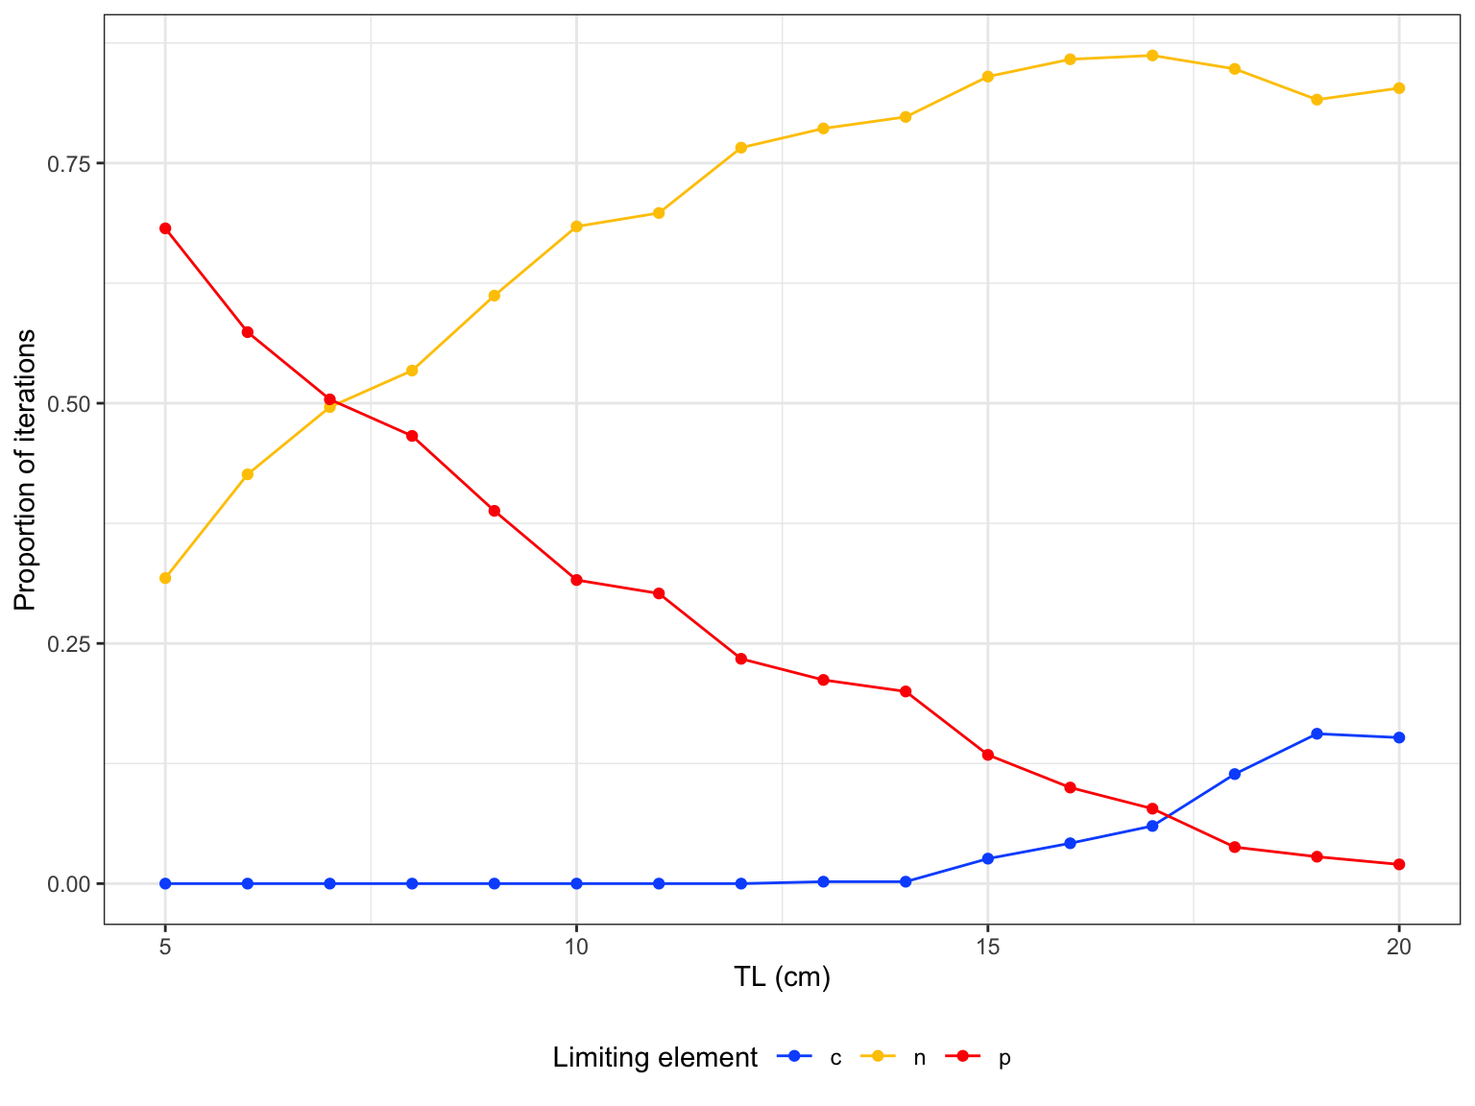
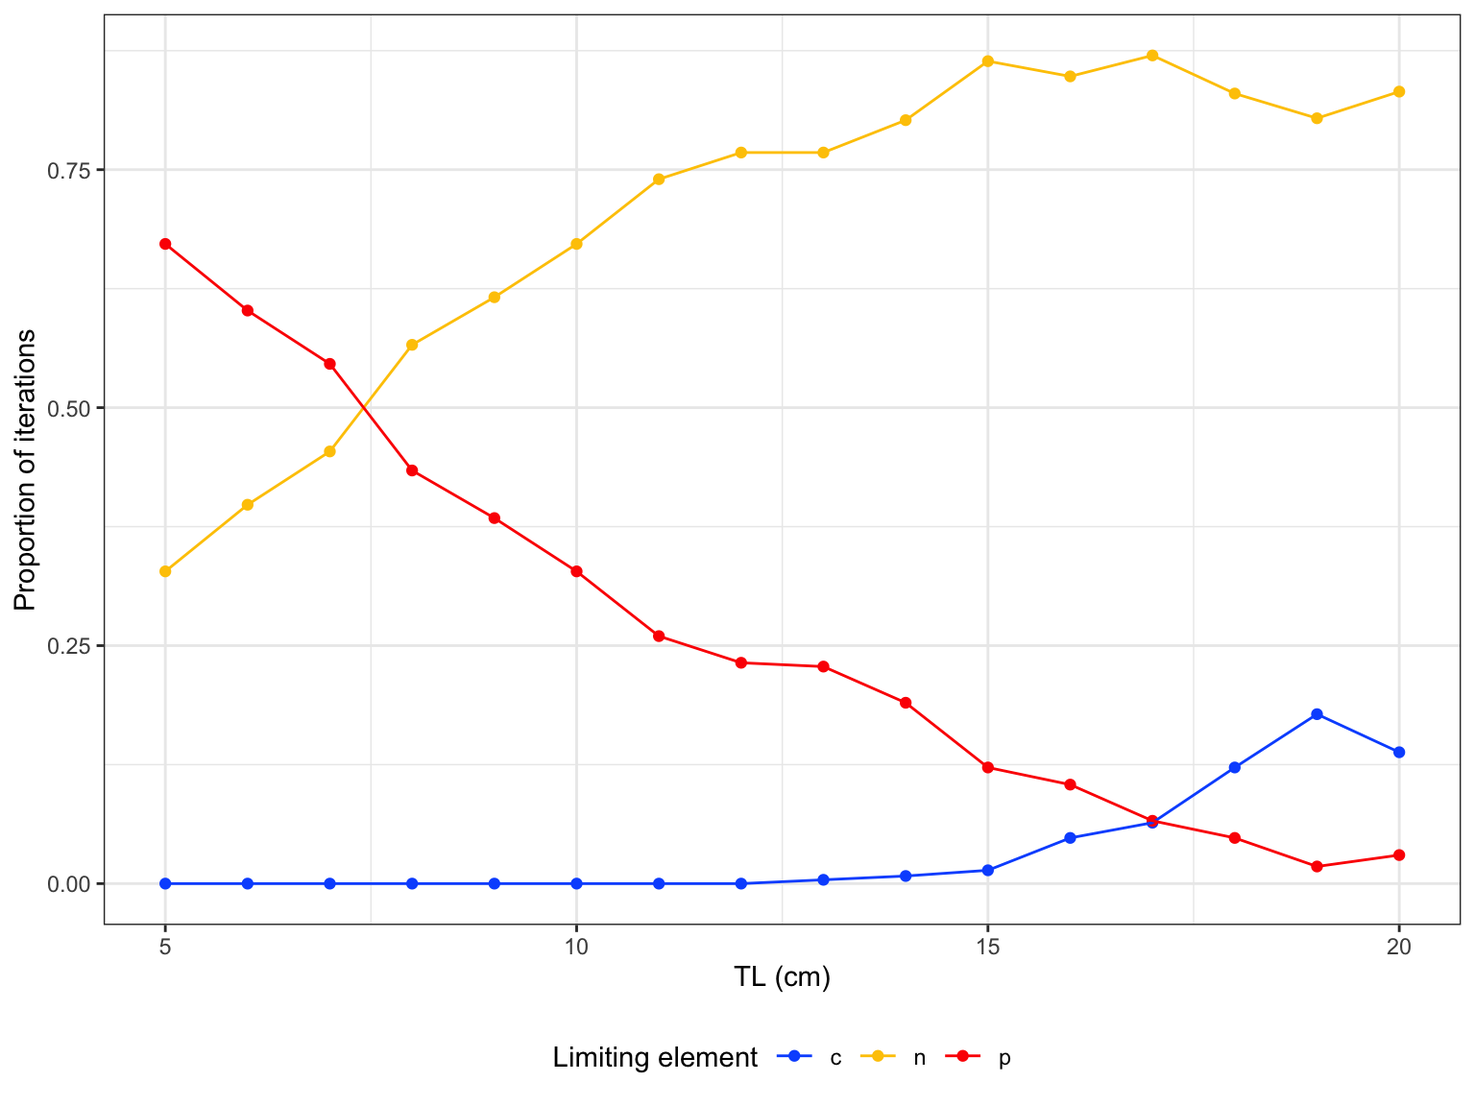
Built site for fishflux: 0.0.1.1@3d5d7e8

diff --git a/articles/intro_to_fishflux.html b/articles/intro_to_fishflux.html
@@ -411,7 +411,7 @@ Elemental stoichiometry of diet
 <span class="co">#&gt;            species    t0 Linf     k     asp troph   lwa_m      lwa_sd lwb_m</span>
 <span class="co">#&gt; 1 Zebrasoma scopas -0.49 13.3 0.425 2.02091     2 0.02455 0.002627551  2.98</span>
 <span class="co">#&gt;      lwb_sd     mdw_m        f0_m        f0_sd alpha_m   alpha_sd</span>
-<span class="co">#&gt; 1 0.0255102 0.2504833 0.001517989 3.128376e-10    0.77 0.05286288</span>
+<span class="co">#&gt; 1 0.0255102 0.2504833 0.001517989 3.221308e-10    0.77 0.05286288</span>
 </pre></div>
 
 <p>All other parameters have to be provided by the user. For more information on how to acquire these parameters, take a look at (“this paper” add reference to methods paper).</p>
@@ -431,57 +431,57 @@ Elemental stoichiometry of diet
 <p>The object <code>model</code> now contains all the samples generated from the MCMC simulation and a summary of all parameters generated. To extract certain variables of interest, use the <code><a href="../reference/extract.html">extract()</a></code> function. Predictions for fluxes of C, N and P are all in g / day. </p>
 <div class="sourceCode" id="cb10"><pre class="downlit">
 <span class="kw">fishflux</span>::<span class="fu"><a href="../reference/extract.html">extract</a></span>(<span class="kw">model</span>, <span class="fu"><a href="https://rdrr.io/r/base/c.html">c</a></span>(<span class="st">"Fn"</span>,<span class="st">"Fp"</span>))
-<span class="co">#&gt;    TL      Fn_mean    Fn_median        Fn_sd      Fn_2.5%    Fn_97.5%</span>
-<span class="co">#&gt; 1   5 0.0008971976 0.0008427023 0.0004485928 0.0002226385 0.001852302</span>
-<span class="co">#&gt; 2   6 0.0012911722 0.0012213562 0.0005892928 0.0003512833 0.002555288</span>
-<span class="co">#&gt; 3   7 0.0018913598 0.0017272066 0.0009147774 0.0004644318 0.004085039</span>
-<span class="co">#&gt; 4   8 0.0025692476 0.0023463980 0.0012849234 0.0005706015 0.005757015</span>
-<span class="co">#&gt; 5   9 0.0033399543 0.0030145958 0.0016765856 0.0009742811 0.007334197</span>
-<span class="co">#&gt; 6  10 0.0043795390 0.0039349080 0.0023190713 0.0011115506 0.010245331</span>
-<span class="co">#&gt; 7  11 0.0057155750 0.0051051084 0.0033361388 0.0012786984 0.013728015</span>
-<span class="co">#&gt; 8  12 0.0070654806 0.0060369016 0.0041748816 0.0017037722 0.017030833</span>
-<span class="co">#&gt; 9  13 0.0091745793 0.0079675110 0.0055502882 0.0019541073 0.023272699</span>
-<span class="co">#&gt; 10 14 0.0106646636 0.0093916928 0.0068783414 0.0020111686 0.027173268</span>
-<span class="co">#&gt; 11 15 0.0133890423 0.0120619617 0.0083318943 0.0025035228 0.033220698</span>
-<span class="co">#&gt; 12 16 0.0157246114 0.0126661965 0.0103119888 0.0033030957 0.040096198</span>
-<span class="co">#&gt; 13 17 0.0201629309 0.0177908562 0.0130508503 0.0039564631 0.051786905</span>
-<span class="co">#&gt; 14 18 0.0249689918 0.0225133952 0.0157875323 0.0049662514 0.060123630</span>
-<span class="co">#&gt; 15 19 0.0270753801 0.0230482867 0.0183912416 0.0065101365 0.073637297</span>
-<span class="co">#&gt; 16 20 0.0318933562 0.0274579617 0.0199279968 0.0075028712 0.079461921</span>
+<span class="co">#&gt;    TL     Fn_mean    Fn_median        Fn_sd      Fn_2.5%    Fn_97.5%</span>
+<span class="co">#&gt; 1   5 0.000892330 0.0008202342 0.0004343086 0.0002536062 0.001934098</span>
+<span class="co">#&gt; 2   6 0.001305549 0.0012425834 0.0005884465 0.0003930769 0.002615290</span>
+<span class="co">#&gt; 3   7 0.001838132 0.0017144554 0.0008669609 0.0005657498 0.003709932</span>
+<span class="co">#&gt; 4   8 0.002485455 0.0023956921 0.0012063945 0.0005363409 0.005211186</span>
+<span class="co">#&gt; 5   9 0.003386492 0.0030859693 0.0016316142 0.0009776993 0.007057342</span>
+<span class="co">#&gt; 6  10 0.004343678 0.0040385811 0.0021655038 0.0011731566 0.009485440</span>
+<span class="co">#&gt; 7  11 0.005817225 0.0052338934 0.0032718147 0.0014472854 0.014556933</span>
+<span class="co">#&gt; 8  12 0.006968913 0.0059734538 0.0041568288 0.0016489904 0.016844476</span>
+<span class="co">#&gt; 9  13 0.008538738 0.0074534535 0.0053121502 0.0017109676 0.021789038</span>
+<span class="co">#&gt; 10 14 0.011092588 0.0094526917 0.0068176759 0.0025347410 0.027237908</span>
+<span class="co">#&gt; 11 15 0.013861626 0.0118337358 0.0087965569 0.0025589856 0.033941740</span>
+<span class="co">#&gt; 12 16 0.016623341 0.0145215076 0.0109202243 0.0027593312 0.042442711</span>
+<span class="co">#&gt; 13 17 0.019302753 0.0158535730 0.0132386823 0.0042491541 0.049960035</span>
+<span class="co">#&gt; 14 18 0.022844673 0.0202565559 0.0148284399 0.0043497765 0.057211186</span>
+<span class="co">#&gt; 15 19 0.026398929 0.0216344702 0.0172599153 0.0062146314 0.067948789</span>
+<span class="co">#&gt; 16 20 0.032744726 0.0278280982 0.0205804837 0.0071949647 0.078197147</span>
 <span class="co">#&gt;          Fn_25%      Fn_75%      Fp_mean    Fp_median        Fp_sd      Fp_2.5%</span>
-<span class="co">#&gt; 1  0.0005814066 0.001133298 0.0000845369 4.162884e-05 0.0001074669 3.296404e-06</span>
-<span class="co">#&gt; 2  0.0008559011 0.001652582 0.0001612931 7.966024e-05 0.0001969316 5.218370e-06</span>
-<span class="co">#&gt; 3  0.0012214976 0.002372440 0.0002865175 1.584475e-04 0.0003322382 1.021650e-05</span>
-<span class="co">#&gt; 4  0.0016972227 0.003224132 0.0004852429 2.852811e-04 0.0005133002 1.653175e-05</span>
-<span class="co">#&gt; 5  0.0020654473 0.004317406 0.0007033101 4.357633e-04 0.0006746701 4.943907e-05</span>
-<span class="co">#&gt; 6  0.0027132453 0.005552391 0.0010660374 8.222450e-04 0.0009440927 3.492547e-05</span>
-<span class="co">#&gt; 7  0.0032430684 0.007490877 0.0015197125 1.085315e-03 0.0013836725 6.876559e-05</span>
-<span class="co">#&gt; 8  0.0040163375 0.009261096 0.0020593541 1.622317e-03 0.0017073201 1.293706e-04</span>
-<span class="co">#&gt; 9  0.0050063819 0.012300737 0.0028336109 2.360883e-03 0.0022729091 1.568082e-04</span>
-<span class="co">#&gt; 10 0.0052393765 0.014845558 0.0035195426 2.813898e-03 0.0027544002 2.767953e-04</span>
-<span class="co">#&gt; 11 0.0068525097 0.018059765 0.0046401300 4.007412e-03 0.0033578654 5.041093e-04</span>
-<span class="co">#&gt; 12 0.0077359227 0.022006976 0.0056842887 4.497358e-03 0.0041390285 7.638701e-04</span>
-<span class="co">#&gt; 13 0.0100390817 0.028062313 0.0075712622 6.683674e-03 0.0051994999 1.154507e-03</span>
-<span class="co">#&gt; 14 0.0119889342 0.033436218 0.0097048904 8.780809e-03 0.0062894550 1.850977e-03</span>
-<span class="co">#&gt; 15 0.0125371618 0.035818606 0.0108022517 9.165988e-03 0.0073492779 2.605937e-03</span>
-<span class="co">#&gt; 16 0.0156914733 0.043607231 0.0127358311 1.088532e-02 0.0079712657 2.886492e-03</span>
+<span class="co">#&gt; 1  0.0005938415 0.001123955 0.0000826550 4.248378e-05 0.0001094517 2.300911e-06</span>
+<span class="co">#&gt; 2  0.0008585821 0.001675516 0.0001578149 8.118899e-05 0.0001890592 8.094315e-06</span>
+<span class="co">#&gt; 3  0.0011977908 0.002381596 0.0002784285 1.486901e-04 0.0003326177 1.101612e-05</span>
+<span class="co">#&gt; 4  0.0016013298 0.003163593 0.0004701323 2.877559e-04 0.0004763450 2.409779e-05</span>
+<span class="co">#&gt; 5  0.0022205604 0.004332193 0.0007357324 4.669388e-04 0.0006880070 5.220424e-05</span>
+<span class="co">#&gt; 6  0.0027248542 0.005558747 0.0010690426 8.064651e-04 0.0009176769 5.531072e-05</span>
+<span class="co">#&gt; 7  0.0032784955 0.007451357 0.0015625559 1.132585e-03 0.0013328287 9.405728e-05</span>
+<span class="co">#&gt; 8  0.0039083775 0.008938357 0.0019621198 1.507596e-03 0.0017037435 7.999178e-05</span>
+<span class="co">#&gt; 9  0.0044077413 0.011319973 0.0026252833 2.145482e-03 0.0021476490 1.552818e-04</span>
+<span class="co">#&gt; 10 0.0057324085 0.015153528 0.0036683755 3.070235e-03 0.0027599486 2.333634e-04</span>
+<span class="co">#&gt; 11 0.0068921494 0.019254643 0.0048319043 3.934304e-03 0.0035573224 5.411508e-04</span>
+<span class="co">#&gt; 12 0.0079872902 0.022809738 0.0059918614 5.164496e-03 0.0043286887 5.867184e-04</span>
+<span class="co">#&gt; 13 0.0091049239 0.025916679 0.0072282076 5.870616e-03 0.0052177496 1.351637e-03</span>
+<span class="co">#&gt; 14 0.0104379097 0.031567503 0.0088681264 7.868538e-03 0.0059496483 1.485253e-03</span>
+<span class="co">#&gt; 15 0.0124039072 0.037055107 0.0105174688 8.680346e-03 0.0068880634 2.366229e-03</span>
+<span class="co">#&gt; 16 0.0163069409 0.044658259 0.0130461778 1.102326e-02 0.0082288159 2.896745e-03</span>
 <span class="co">#&gt;        Fp_97.5%       Fp_25%       Fp_75%</span>
-<span class="co">#&gt; 1  0.0003614592 2.092266e-05 8.919894e-05</span>
-<span class="co">#&gt; 2  0.0007076267 4.122615e-05 2.005069e-04</span>
-<span class="co">#&gt; 3  0.0011205706 7.800665e-05 3.858120e-04</span>
-<span class="co">#&gt; 4  0.0018766426 1.173207e-04 6.915252e-04</span>
-<span class="co">#&gt; 5  0.0026187738 2.054523e-04 1.063772e-03</span>
-<span class="co">#&gt; 6  0.0034950367 3.395817e-04 1.545308e-03</span>
-<span class="co">#&gt; 7  0.0052381707 4.603839e-04 2.314768e-03</span>
-<span class="co">#&gt; 8  0.0062718516 7.276306e-04 2.838645e-03</span>
-<span class="co">#&gt; 9  0.0087038708 1.004703e-03 3.932499e-03</span>
-<span class="co">#&gt; 10 0.0097404820 1.320274e-03 5.047346e-03</span>
-<span class="co">#&gt; 11 0.0124068294 1.991050e-03 6.408959e-03</span>
-<span class="co">#&gt; 12 0.0158132979 2.505276e-03 8.053852e-03</span>
-<span class="co">#&gt; 13 0.0200497181 3.560635e-03 1.066790e-02</span>
-<span class="co">#&gt; 14 0.0239314043 4.664313e-03 1.305767e-02</span>
-<span class="co">#&gt; 15 0.0294567469 5.032769e-03 1.436016e-02</span>
-<span class="co">#&gt; 16 0.0321558382 6.199518e-03 1.725372e-02</span>
+<span class="co">#&gt; 1  0.0003993457 2.340244e-05 8.477846e-05</span>
+<span class="co">#&gt; 2  0.0007361324 4.047369e-05 1.945532e-04</span>
+<span class="co">#&gt; 3  0.0011466144 6.985265e-05 4.060408e-04</span>
+<span class="co">#&gt; 4  0.0017542168 1.219315e-04 6.651142e-04</span>
+<span class="co">#&gt; 5  0.0024516420 2.202994e-04 1.100870e-03</span>
+<span class="co">#&gt; 6  0.0033539254 3.395048e-04 1.544804e-03</span>
+<span class="co">#&gt; 7  0.0050328802 5.626677e-04 2.211616e-03</span>
+<span class="co">#&gt; 8  0.0061809597 6.763053e-04 2.784042e-03</span>
+<span class="co">#&gt; 9  0.0079028783 8.920328e-04 3.841104e-03</span>
+<span class="co">#&gt; 10 0.0100188424 1.387633e-03 5.397443e-03</span>
+<span class="co">#&gt; 11 0.0127060159 1.876138e-03 7.000961e-03</span>
+<span class="co">#&gt; 12 0.0159669666 2.501806e-03 8.234894e-03</span>
+<span class="co">#&gt; 13 0.0203323022 3.154684e-03 9.939561e-03</span>
+<span class="co">#&gt; 14 0.0221263918 4.013796e-03 1.236004e-02</span>
+<span class="co">#&gt; 15 0.0273607501 4.966495e-03 1.481783e-02</span>
+<span class="co">#&gt; 16 0.0311232895 6.625166e-03 1.777497e-02</span>
 </pre></div>
 
 </div>
@@ -503,46 +503,46 @@ Elemental stoichiometry of diet
 #&gt; 6  10        c    0.000
 #&gt; 7  11        c    0.000
 #&gt; 8  12        c    0.000
-#&gt; 9  13        c    0.002
-#&gt; 10 14        c    0.002
-#&gt; 11 15        c    0.026
-#&gt; 12 16        c    0.042
-#&gt; 13 17        c    0.060
-#&gt; 14 18        c    0.114
-#&gt; 15 19        c    0.156
-#&gt; 16 20        c    0.152
-#&gt; 17  5        n    0.318
-#&gt; 18  6        n    0.426
-#&gt; 19  7        n    0.496
-#&gt; 20  8        n    0.534
-#&gt; 21  9        n    0.612
-#&gt; 22 10        n    0.684
-#&gt; 23 11        n    0.698
-#&gt; 24 12        n    0.766
-#&gt; 25 13        n    0.786
-#&gt; 26 14        n    0.798
-#&gt; 27 15        n    0.840
-#&gt; 28 16        n    0.858
-#&gt; 29 17        n    0.862
-#&gt; 30 18        n    0.848
-#&gt; 31 19        n    0.816
-#&gt; 32 20        n    0.828
-#&gt; 33  5        p    0.682
-#&gt; 34  6        p    0.574
-#&gt; 35  7        p    0.504
-#&gt; 36  8        p    0.466
-#&gt; 37  9        p    0.388
-#&gt; 38 10        p    0.316
-#&gt; 39 11        p    0.302
-#&gt; 40 12        p    0.234
-#&gt; 41 13        p    0.212
-#&gt; 42 14        p    0.200
-#&gt; 43 15        p    0.134
-#&gt; 44 16        p    0.100
-#&gt; 45 17        p    0.078
-#&gt; 46 18        p    0.038
-#&gt; 47 19        p    0.028
-#&gt; 48 20        p    0.020
+#&gt; 9  13        c    0.004
+#&gt; 10 14        c    0.008
+#&gt; 11 15        c    0.014
+#&gt; 12 16        c    0.048
+#&gt; 13 17        c    0.064
+#&gt; 14 18        c    0.122
+#&gt; 15 19        c    0.178
+#&gt; 16 20        c    0.138
+#&gt; 17  5        n    0.328
+#&gt; 18  6        n    0.398
+#&gt; 19  7        n    0.454
+#&gt; 20  8        n    0.566
+#&gt; 21  9        n    0.616
+#&gt; 22 10        n    0.672
+#&gt; 23 11        n    0.740
+#&gt; 24 12        n    0.768
+#&gt; 25 13        n    0.768
+#&gt; 26 14        n    0.802
+#&gt; 27 15        n    0.864
+#&gt; 28 16        n    0.848
+#&gt; 29 17        n    0.870
+#&gt; 30 18        n    0.830
+#&gt; 31 19        n    0.804
+#&gt; 32 20        n    0.832
+#&gt; 33  5        p    0.672
+#&gt; 34  6        p    0.602
+#&gt; 35  7        p    0.546
+#&gt; 36  8        p    0.434
+#&gt; 37  9        p    0.384
+#&gt; 38 10        p    0.328
+#&gt; 39 11        p    0.260
+#&gt; 40 12        p    0.232
+#&gt; 41 13        p    0.228
+#&gt; 42 14        p    0.190
+#&gt; 43 15        p    0.122
+#&gt; 44 16        p    0.104
+#&gt; 45 17        p    0.066
+#&gt; 46 18        p    0.048
+#&gt; 47 19        p    0.018
+#&gt; 48 20        p    0.030
 ## Plot one variable:
 fishflux::plot_cnp(model,  y = "Fp", x = "tl", probs = c(0.5, 0.8, 0.95))</a></code></pre>
 <p><img src="intro_to_fishflux_files/figure-html/unnamed-chunk-9-2.png" width="768"></p>
@@ -562,11 +562,11 @@ fishflux::plot_cnp(model,  y = "Fp", x = "tl", probs = c(0.5, 0.8, 0.95))</a></c
 </pre></div>
 <p><img src="intro_to_fishflux_files/figure-html/unnamed-chunk-10-1.png" width="768"></p>
 <pre><code>#&gt;              Fn_CI        Fp_CI        Ic_CI
-#&gt; Dn_sd 1.925305e-10 0.0002342137 8.364776e-03
-#&gt; Dp_sd 2.035078e-10 0.0008048663 2.130135e-09
-#&gt; Qn_sd 2.133686e-03 0.0008327102 2.973965e-02
-#&gt; Qp_sd 1.966702e-10 0.0007582806 2.048550e-09
-#&gt; k_sd  1.959302e-10 0.0001141954 1.098033e-02</code></pre>
+#&gt; Dn_sd 2.098920e-10 0.0002816666 1.005952e-02
+#&gt; Dp_sd 2.089410e-10 0.0007462453 2.201808e-09
+#&gt; Qn_sd 1.935921e-03 0.0007555289 2.698317e-02
+#&gt; Qp_sd 1.989976e-10 0.0007056065 2.087257e-09
+#&gt; k_sd  2.013695e-10 0.0001144880 1.100847e-02</code></pre>
 
 </div>
 </div>

diff --git a/reference/extract.html b/reference/extract.html
@@ -174,19 +174,19 @@
     <h2 class="hasAnchor" id="examples"><a class="anchor" href="#examples"></a>Examples</h2>
     <pre class="examples"><div class='input'><span class='kw'>model</span> <span class='op'>&lt;-</span> <span class='fu'><a href='https://rdrr.io/pkg/fishflux/man/cnp_model_mcmc.html'>cnp_model_mcmc</a></span>(TL = <span class='fl'>5</span><span class='op'>:</span><span class='fl'>10</span>, param = <span class='fu'><a href='https://rdrr.io/r/base/list.html'>list</a></span>(Qc_m = <span class='fl'>40</span>, Qn_m = <span class='fl'>10</span>, Qp_m = <span class='fl'>4</span>))
 <span class='fu'><a href='https://rdrr.io/pkg/fishflux/man/extract.html'>extract</a></span>(<span class='kw'>model</span>, <span class='fu'><a href='https://rdrr.io/r/base/c.html'>c</a></span>(<span class='st'>"Fn"</span>,<span class='st'>"Fp"</span>))</div><div class='output co'>#&gt;   TL      Fn_mean    Fn_median        Fn_sd      Fn_2.5%     Fn_97.5%
-#&gt; 1  5 0.0006047886 0.0006047886 6.373197e-12 0.0006047886 0.0006047886
-#&gt; 2  6 0.0010610097 0.0010610097 1.065870e-11 0.0010610097 0.0010610097
-#&gt; 3  7 0.0017065393 0.0017065393 1.735772e-11 0.0017065393 0.0017065394
-#&gt; 4  8 0.0025757605 0.0025757605 2.617331e-11 0.0025757604 0.0025757605
-#&gt; 5  9 0.0037034689 0.0037034689 3.544383e-11 0.0037034688 0.0037034690
-#&gt; 6 10 0.0051248251 0.0051248251 4.844321e-11 0.0051248250 0.0051248252
+#&gt; 1  5 0.0006047886 0.0006047886 6.092179e-12 0.0006047886 0.0006047886
+#&gt; 2  6 0.0010610097 0.0010610097 1.040488e-11 0.0010610097 0.0010610097
+#&gt; 3  7 0.0017065393 0.0017065393 1.777023e-11 0.0017065393 0.0017065394
+#&gt; 4  8 0.0025757605 0.0025757605 2.683413e-11 0.0025757604 0.0025757605
+#&gt; 5  9 0.0037034689 0.0037034689 3.726107e-11 0.0037034688 0.0037034690
+#&gt; 6 10 0.0051248251 0.0051248251 5.312756e-11 0.0051248250 0.0051248252
 #&gt;         Fn_25%       Fn_75%      Fp_mean    Fp_median        Fp_sd      Fp_2.5%
-#&gt; 1 0.0006047886 0.0006047886 0.0001097965 0.0001097965 1.854933e-12 0.0001097965
-#&gt; 2 0.0010610097 0.0010610097 0.0002186548 0.0002186548 3.123718e-12 0.0002186548
-#&gt; 3 0.0017065393 0.0017065394 0.0003815567 0.0003815567 5.058719e-12 0.0003815567
-#&gt; 4 0.0025757605 0.0025757605 0.0006096826 0.0006096826 7.622668e-12 0.0006096826
-#&gt; 5 0.0037034689 0.0037034689 0.0009143614 0.0009143614 1.031600e-11 0.0009143614
-#&gt; 6 0.0051248250 0.0051248251 0.0013070515 0.0013070515 1.412849e-11 0.0013070515
+#&gt; 1 0.0006047886 0.0006047886 0.0001097965 0.0001097965 1.774865e-12 0.0001097965
+#&gt; 2 0.0010610097 0.0010610097 0.0002186548 0.0002186548 3.043975e-12 0.0002186548
+#&gt; 3 0.0017065393 0.0017065394 0.0003815567 0.0003815567 5.178508e-12 0.0003815567
+#&gt; 4 0.0025757605 0.0025757605 0.0006096826 0.0006096826 7.841814e-12 0.0006096826
+#&gt; 5 0.0037034689 0.0037034689 0.0009143614 0.0009143614 1.085164e-11 0.0009143614
+#&gt; 6 0.0051248250 0.0051248251 0.0013070515 0.0013070515 1.546954e-11 0.0013070515
 #&gt;       Fp_97.5%       Fp_25%       Fp_75%
 #&gt; 1 0.0001097965 0.0001097965 0.0001097965
 #&gt; 2 0.0002186548 0.0002186548 0.0002186548

diff --git a/reference/sensitivity.html b/reference/sensitivity.html
@@ -176,9 +176,9 @@ Plots a heatplot with width of the 95<!-- %CI of output predictions. --></p>
     <pre class="examples"><div class='input'><span class='fu'><a href='https://rdrr.io/r/base/library.html'>library</a></span>(<span class='kw'><a href='https://nschiett.github.io/fishflux'>fishflux</a></span>)
 <span class='fu'><a href='https://rdrr.io/pkg/fishflux/man/sensitivity.html'>sensitivity</a></span>(TL = <span class='fl'>10</span>, param = <span class='fu'><a href='https://rdrr.io/r/base/list.html'>list</a></span>(k_sd = <span class='fl'>0.2</span>, Dn_sd = <span class='fl'>0.2</span>, Dc_sd = <span class='fl'>0.1</span>),
             par = <span class='fu'><a href='https://rdrr.io/r/base/c.html'>c</a></span>(<span class='st'>"k_sd"</span>,<span class='st'>"Dn_sd"</span>,<span class='st'>"Dc_sd"</span>), out = <span class='fu'><a href='https://rdrr.io/r/base/c.html'>c</a></span>(<span class='st'>"Ic"</span>, <span class='st'>"In"</span>, <span class='st'>"Ip"</span>, <span class='st'>"Gc"</span>))</div><div class='output co'>#&gt; <span class='message'>Joining, by = "key"</span></div><div class='img'><img src='sensitivity-1.png' alt='' width='700' height='433' /></div><div class='output co'>#&gt;            Ic_CI        In_CI        Ip_CI        Gc_CI
-#&gt; k_sd  0.03265505 3.918606e-03 1.306202e-03 1.253954e-02
-#&gt; Dn_sd 0.25010587 5.141147e-03 1.000423e-02 7.698061e-11
-#&gt; Dc_sd 0.01206558 2.431213e-10 8.193442e-11 6.994236e-11</div><div class='input'></div></pre>
+#&gt; k_sd  0.03288935 3.946722e-03 1.315574e-03 1.262951e-02
+#&gt; Dn_sd 0.22557937 3.593140e-03 9.023175e-03 7.310533e-11
+#&gt; Dc_sd 0.01198425 2.786666e-10 9.349095e-11 6.920900e-11</div><div class='input'></div></pre>
   </div>
   <div class="col-md-3 hidden-xs hidden-sm" id="pkgdown-sidebar">
     <nav id="toc" data-toggle="toc" class="sticky-top">

diff --git a/index.html b/index.html
@@ -194,8 +194,8 @@
 <li><a href="https://github.com/nschiett/fishflux/actions"><img src="https://github.com/nschiett/fishflux/workflows/R-CMD-check/badge.svg" alt="Actions Status"></a></li>
 <li><a href="https://choosealicense.com/"><img src="https://img.shields.io/badge/license-MIT%20+%20file%20LICENSE-lightgrey.svg" alt="license"></a></li>
 <li><a href="https://codecov.io/gh/nschiett/fishflux?branch=maste"><img src="https://codecov.io/gh/nschiett/fishflux/branch/master/graph/badge.svg" alt="Codecov test coverage"></a></li>
-<li><a href="https://CRAN.R-project.org/package=fishflux"><img src="https://www.r-pkg.org/badges/version/fishflux" alt="CRAN status"></a></li>
-<li><a href="https://cran.rstudio.com/package=fishflux"><img src="http://cranlogs.r-pkg.org/badges/grand-total/fishflux?color=brightgreen" alt="Downloads"></a></li>
+<li><a href="https://cran.rstudio.com/web/packages/fishflux/index.html"><img src="https://www.r-pkg.org/badges/version/fishflux" alt="CRAN status"></a></li>
+<li><a href="https://cran.rstudio.com/web/packages/fishflux/index.html"><img src="http://cranlogs.r-pkg.org/badges/grand-total/fishflux?color=brightgreen" alt="Downloads"></a></li>
 <li><a href="https://github.com/nschiett/fishflux/issues/new"><img src="https://img.shields.io/badge/Ask%20us-anything-1abc9c.svg" alt="Ask Us Anything !"></a></li>
 </ul>
 </div>

diff --git a/reference/limitation.html b/reference/limitation.html
@@ -172,8 +172,8 @@
 #&gt; Chain 1: Iteration: 1000 / 1000 [100%]  (Sampling)
 #&gt; Chain 1: 
 #&gt; Chain 1:  Elapsed Time: 0 seconds (Warm-up)
-#&gt; Chain 1:                0.015798 seconds (Sampling)
-#&gt; Chain 1:                0.015798 seconds (Total)
+#&gt; Chain 1:                0.011279 seconds (Sampling)
+#&gt; Chain 1:                0.011279 seconds (Total)
 #&gt; Chain 1: </div><div class='input'><span class='fu'><a href='https://rdrr.io/pkg/fishflux/man/limitation.html'>limitation</a></span>(<span class='kw'>mod</span>)</div><div class='output co'>#&gt; <span class='message'>geom_path: Each group consists of only one observation. Do you need to adjust</span>
 #&gt; <span class='message'>the group aesthetic?</span></div><div class='img'><img src='limitation-1.png' alt='' width='700' height='433' /></div><div class='output co'>#&gt;   tl nutrient prop_lim
 #&gt; 1  5        c    0.000

diff --git a/reference/metabolism.html b/reference/metabolism.html
@@ -186,8 +186,8 @@ which also includes trophic level as a covariate.</p>
 #&gt; Chain 1: Iteration: 1000 / 1000 [100%]  (Sampling)
 #&gt; Chain 1: 
 #&gt; Chain 1:  Elapsed Time: 0 seconds (Warm-up)
-#&gt; Chain 1:                0.001459 seconds (Sampling)
-#&gt; Chain 1:                0.001459 seconds (Total)
+#&gt; Chain 1:                0.001112 seconds (Sampling)
+#&gt; Chain 1:                0.001112 seconds (Total)
 #&gt; Chain 1: </div><div class='output co'>#&gt;          f0_m       f0_sd   alpha_m  alpha_sd        b0_m        b0_sd
 #&gt; 1 0.004528457 0.002004058 0.4256931 0.1035894 0.001415727 0.0006612888</div><div class='input'></div></pre>
   </div>

diff --git a/reference/model_parameters.html b/reference/model_parameters.html
@@ -178,8 +178,8 @@
 #&gt; Chain 1: Iteration: 1000 / 1000 [100%]  (Sampling)
 #&gt; Chain 1: 
 #&gt; Chain 1:  Elapsed Time: 0 seconds (Warm-up)
-#&gt; Chain 1:                0.001401 seconds (Sampling)
-#&gt; Chain 1:                0.001401 seconds (Total)
+#&gt; Chain 1:                0.001085 seconds (Sampling)
+#&gt; Chain 1:                0.001085 seconds (Total)
 #&gt; Chain 1: </div><div class='output co'>#&gt;            species      t0  Linf     k     asp troph   lwa_m      lwa_sd lwb_m
 #&gt; 1 Scarus psittacus -0.6025 23.05 0.814 1.80877     2 0.01585 0.001760204  3.06
 #&gt;       lwb_sd     mdw_m        f0_m        f0_sd alpha_m   alpha_sd

diff --git a/reference/cnp_model_mcmc.html b/reference/cnp_model_mcmc.html
@@ -213,8 +213,8 @@ Qc_m = <span class='fl'>40</span>, Qn_m = <span class='fl'>10</span>, Qp_m = <sp
 #&gt; Chain 1: Iteration: 1000 / 1000 [100%]  (Sampling)
 #&gt; Chain 1: 
 #&gt; Chain 1:  Elapsed Time: 0 seconds (Warm-up)
-#&gt; Chain 1:                0.014352 seconds (Sampling)
-#&gt; Chain 1:                0.014352 seconds (Total)
+#&gt; Chain 1:                0.011504 seconds (Sampling)
+#&gt; Chain 1:                0.011504 seconds (Total)
 #&gt; Chain 1: </div><div class='input'></div></pre>
   </div>
   <div class="col-md-3 hidden-xs hidden-sm" id="pkgdown-sidebar">
